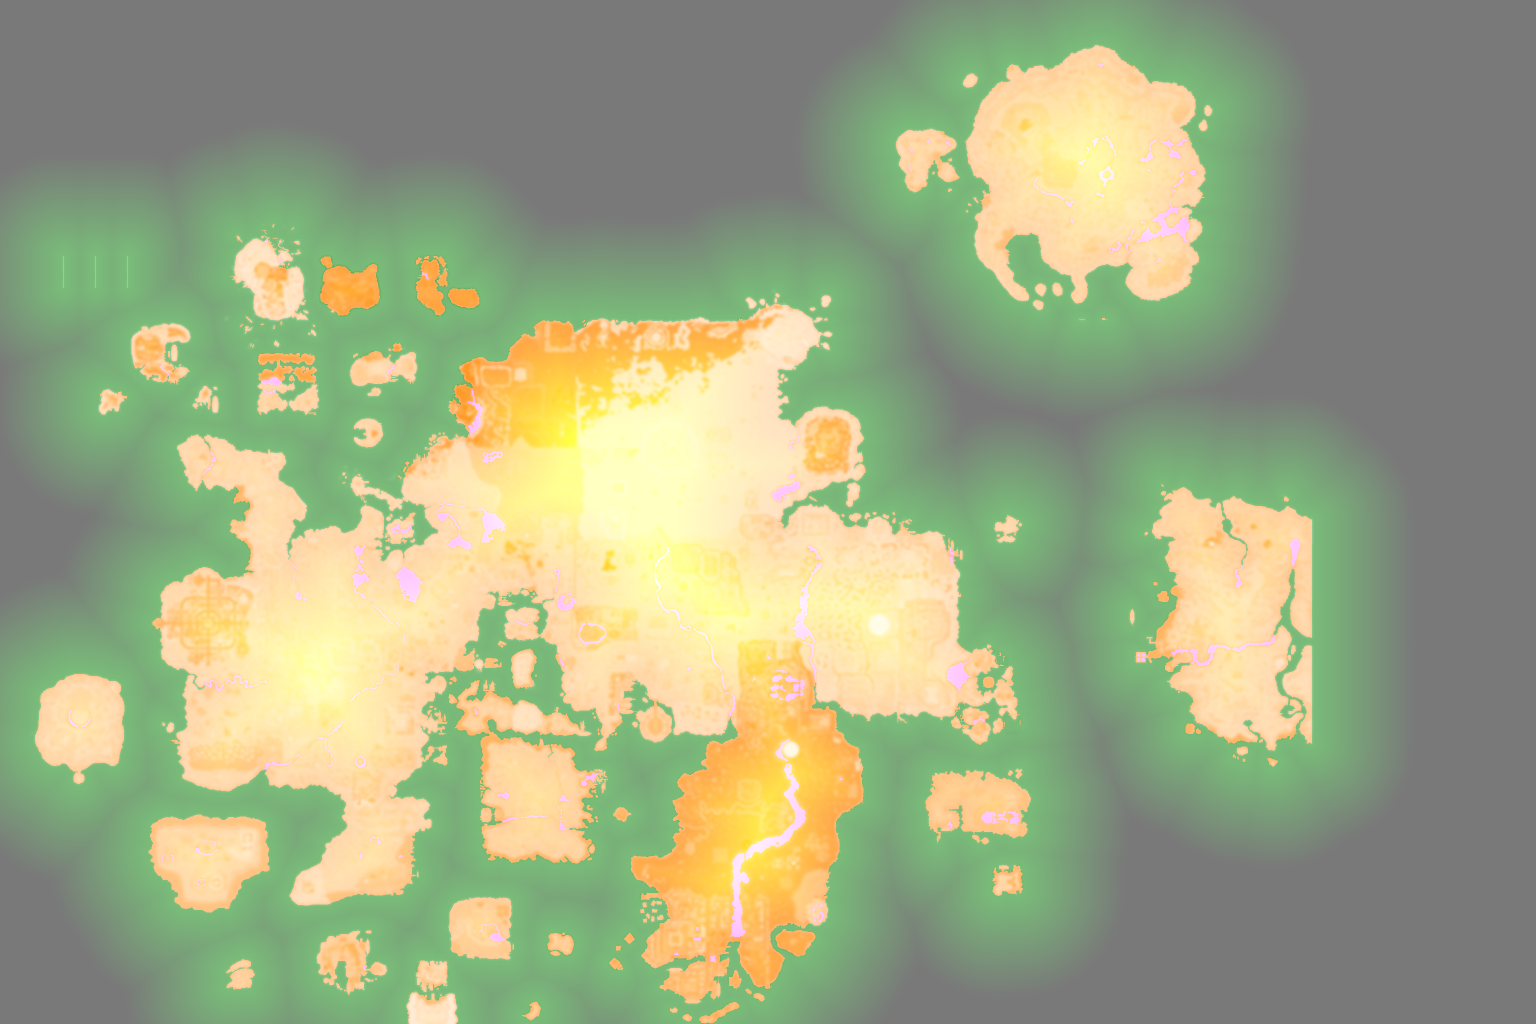
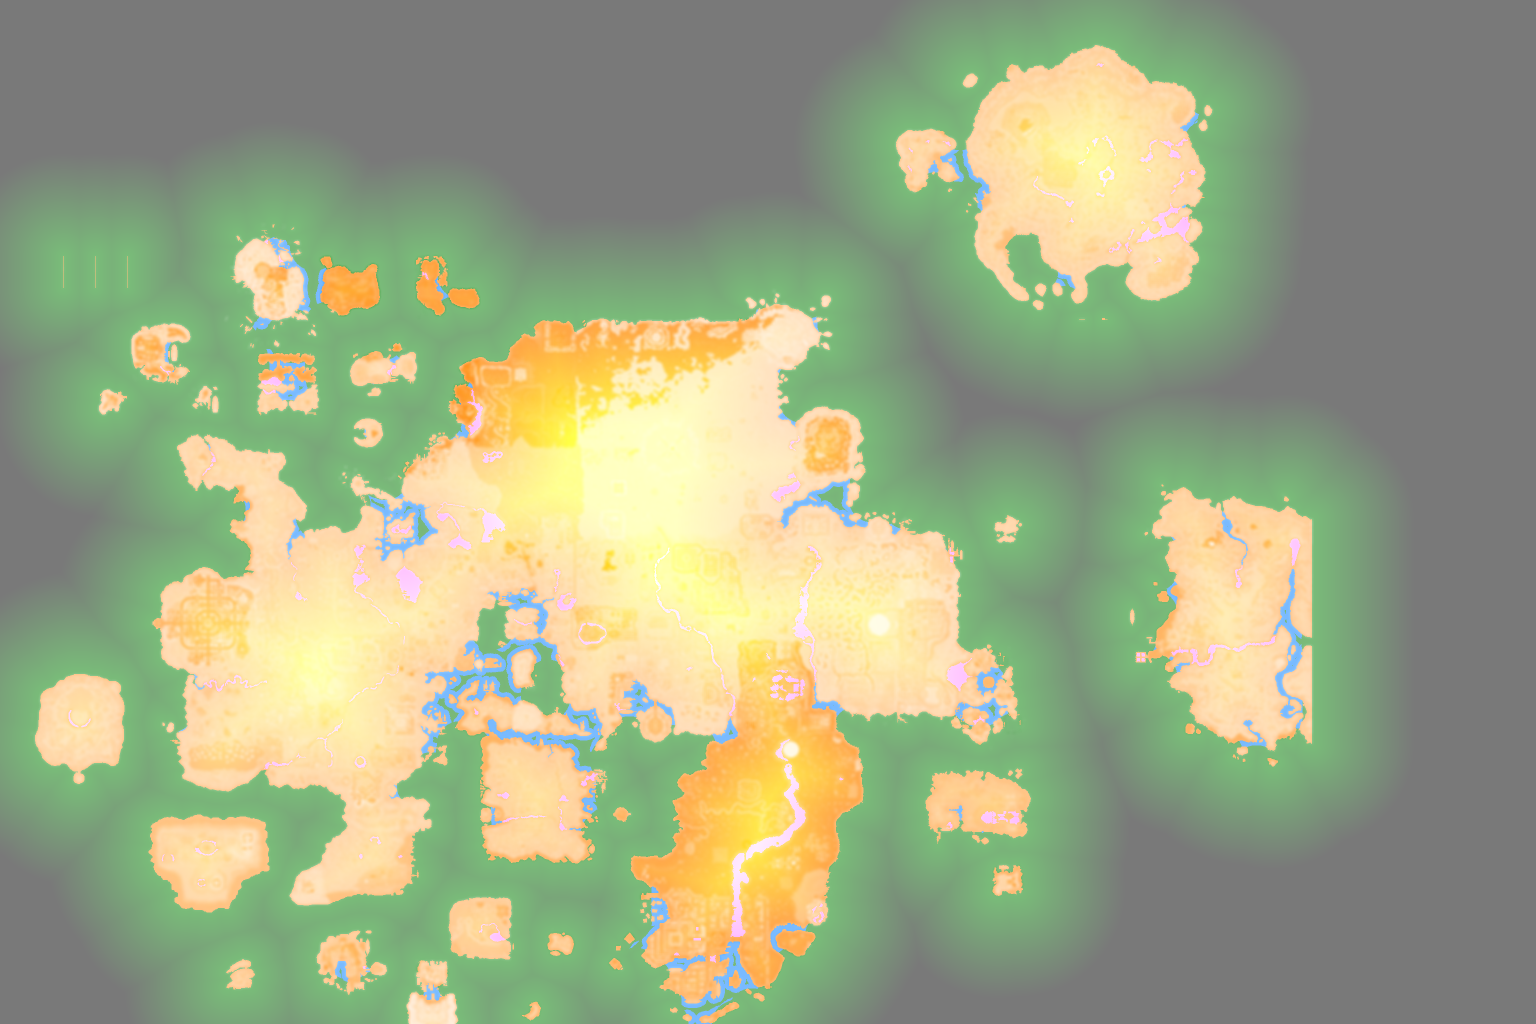
Flow the rivers: find them by shape, and move them to the ocean shader.
Rivers are painted in the open-sea colour, so the flood from the frame edge runs
up every one of them and they are already cut out of the plates — the ocean
plane is what shows through a river, and it was swelling them like open sea.

Finding them needed the right property. Colour cannot: 97% of every bluish pixel
on the raster is the one sea value. Enclosed-water cannot: almost nothing on this
map is enclosed, which is why that channel sat at 3.1% of land and 11 of 12 river
probes read zero. Width cannot on its own: land on opposing banks within seven
tiles catches the Lum and the Elid correctly and outlines every cove with them.

What separates a river from a bay is distance from open water. A cove is a narrow
notch a few tiles off the sea; a river is narrow for its whole length and runs a
long way inland. So: mark water open enough to be sea, distance-transform from
it, and call a tile a river when it is both narrow and far from anywhere the sea
reaches. 73k tiles, and the rendered mask has clean coastlines with the Lum,
Salve, Elid, Baxtorian and the Havenhythe and Anachronia networks all picked up.

WaterMaterial reads that channel: swell, crests and sun glint are ocean
behaviour and a river gets none of them, and the current runs along the channel
because the coast-distance gradient points across it. Each river gets its own
heading rather than the map scrolling one way.

diff --git a/src/map/materials/WaterMaterial.ts b/src/map/materials/WaterMaterial.ts
@@ -33,11 +33,14 @@ import {
   vec3,
 } from "three/tsl";
 import type { Node } from "three/webgpu";
-import { linear, mapClock, mapUvFrom } from "./shared";
+import { FIELD_TEXEL, linear, mapClock, mapUvFrom } from "./shared";
 
 const DEEP = 0x24506e;
 const SHALLOW = 0x4a7fa0;
 const SKY = 0x7ea8c6;
+/** River water — greener and darker than the sea it runs into. */
+const RIVER_DEEP = 0x2c4a4a;
+const RIVER_LIT = 0x4d7a72;
 const FOAM = 0xb8ccd8;
 /** Outer void — a touch darker than shallow so the board sits in a continuous
  *  field without turning the whole viewport into a black pit. */
@@ -151,9 +154,41 @@ export function createWaterMaterial(
   const view = cameraPosition.sub(positionWorld).normalize();
   const fresnel = normal.dot(view).clamp(float(0), float(1)).oneMinus().pow(float(4.2));
 
-  const F = texture(field, mapUvFrom(positionWorld));
+  const mapUv = mapUvFrom(positionWorld);
+  const F = texture(field, mapUv);
   // Open water only — cuts plate-bottom / island-underside specular shafts.
   const offshore = smoothstep(float(0.5), float(0.455), F.g);
+
+  /**
+   * Rivers.
+   *
+   * B marks water that is narrow and a long way from open sea — the Lum, the
+   * Salve, the Elid. The Wiki paints them in the open-sea colour, so they are
+   * cut out of the plates along with the ocean, which means *this* plane is what
+   * shows through a river. Ocean swell is the wrong motion for one.
+   *
+   * Direction comes from the coast-distance field: the gradient points across
+   * the channel, so its perpendicular runs along it. Every river gets its own
+   * heading out of that, rather than the whole map scrolling one way.
+   */
+  const texel = float(FIELD_TEXEL);
+  const gx = texture(field, mapUv.add(vec2(texel, float(0)))).g.sub(
+    texture(field, mapUv.add(vec2(texel.negate(), float(0)))).g,
+  );
+  const gy = texture(field, mapUv.add(vec2(float(0), texel))).g.sub(
+    texture(field, mapUv.add(vec2(float(0), texel.negate()))).g,
+  );
+  const slope = gx.mul(gx).add(gy.mul(gy)).sqrt();
+  const flowDir = vec2(gy.negate(), gx).div(slope.add(float(0.0004)));
+  const along = mapUv.x.mul(flowDir.x).add(mapUv.y.mul(flowDir.y));
+  const drift = along.mul(float(430)).sub(mapClock.mul(float(0.85)));
+  const current = drift
+    .sin()
+    .mul(float(0.6))
+    .add(drift.mul(float(2.1)).add(float(1.7)).sin().mul(float(0.4)));
+  const isRiver = smoothstep(float(0.16), float(0.5), F.b);
+  // Swell, crests and sun glint are all ocean behaviour; a river gets none.
+  const openWater = isRiver.oneMinus();
 
   let water = mix(
     linear(SHALLOW),
@@ -189,7 +224,16 @@ export function createWaterMaterial(
     .mul(height.mul(float(0.35)).add(float(0.65)))
     .mul(float(0.28));
   // clamp edges as float() — bare 0 / 0.45 are abstract and fail WebGPU validation.
-  water = mix(water, linear(FOAM), crest.add(surf).clamp(float(0), float(0.45)));
+  water = mix(
+    water,
+    linear(FOAM),
+    crest.add(surf).clamp(float(0), float(0.45)).mul(openWater),
+  );
+
+  // River water: darker and greener than the sea it joins, with the current
+  // reading as movement along the channel rather than swell across it.
+  const riverBed = mix(linear(RIVER_DEEP), linear(RIVER_LIT), current.mul(float(0.5)).add(float(0.5)));
+  water = mix(water, riverBed, isRiver.mul(float(0.82)));
 
   // Horizon further out so the board sits in living sea, not a grey puddle.
   const horizon = smoothstep(float(1.55), float(2.65), vec2(px, pz).length());
